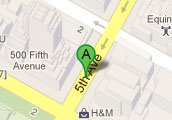
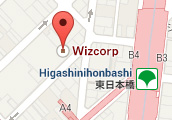
updated map and contact section

diff --git a/index.html b/index.html
@@ -293,7 +293,7 @@
         </div><!-- container -->
     </article>
     
-    <article id="portfolio">
+    <article id="portfolio_modified">
         <div class="container">
         
             <div class="sixteen columns title">
@@ -404,7 +404,7 @@
         </div><!-- container -->
     </article>
     
-    <article id="about" style="background-color:#fff">
+    <article id="about_modified" style="background-color:#fff">
         <div class="container">
         
             <div class="sixteen columns title">
@@ -561,27 +561,30 @@
         
             <div class="sixteen columns title">
                 <h2 class="remove-bottom">Contact Us</h2>
-                <h6 class="subheader">We'd love to hear from you!</h6>
+                <h6 class="subheader">For press inquiries and career opportunities, please send us a message.</h6>
             </div>
             
             <div class="five columns">
                 <h3>Find Us</h3>
-                <p>This form uses the newest HTML5 tags and has graceful fallback for old browsers (ie. the email field requires to be filled with a valid email).</p>
+                <p>
+                	Higashi-nihonbashi 3-10-14<br>
+                    Chuo-ku, Tokyo 103-0004<br>
+                    <br>
+                    +81 (0)3-4550-1448<br>
+                </p>
                 <p class="clearfix">
-                    <a class="targetblank enjoliver imglink" href="http://maps.google.com/maps?saddr=5th+Ave&hl=en&ll=40.754149,-73.980035&spn=0.005445,0.009195&sll=40.775992,-73.960218&sspn=0.021774,0.036778&geocode=FXfabQId_CSX-w&vpsrc=6&mra=mr&t=m&z=17">
+                    <a class="targetblank enjoliver imglink" href="https://www.google.com/maps/place/Wizcorp/@35.692341,139.783977,17z/data=!3m1!4b1!4m2!3m1!1s0x6018894d446cda95:0xb98f846c2f69a21?hl=en">
                         <img src="./images/map.jpg" alt="Locate Us on Google Maps" title="See on Google Maps" class="scale-with-grid">
                     </a>
                 </p>
-                <p>
-                    5th Ave.<br>
-                    New York, NY 10001<br>
-                    (212) 222-1111<br>
-                </p>
+
             </div>
             
             <div class="eleven columns">
                 <h3>Send Us a Message</h3>
-                <p>Get in touch with us below, or send us an email at <a href="mailto:info@wizcorp.com">contact@maddim.com</a> – we'll write back.</p>
+                <p>Get in touch with us below, or send us an email at <a href="mailto:info@wizcorp.jp">info@wizcorp.jp</a> – we'll write back.</p>
+                <p>View our open positions on <a href="http://hire.jobvite.com/CompanyJobs/Careers.aspx?c=qQd9VfwR&jvprefix=http%3a%2f%2fwww.wizcorp.jp&jvresize=http%3a%2f%2fwww.wizcorp.jp%2fFrameResize.html&k=JobListing&v=1" target="_blank">Jobvite</a>.</p>
+
     
                 <form action="http://www.maddim.com/demos/project-source/ajax.php" method="post" class="send-with-ajax">
             
